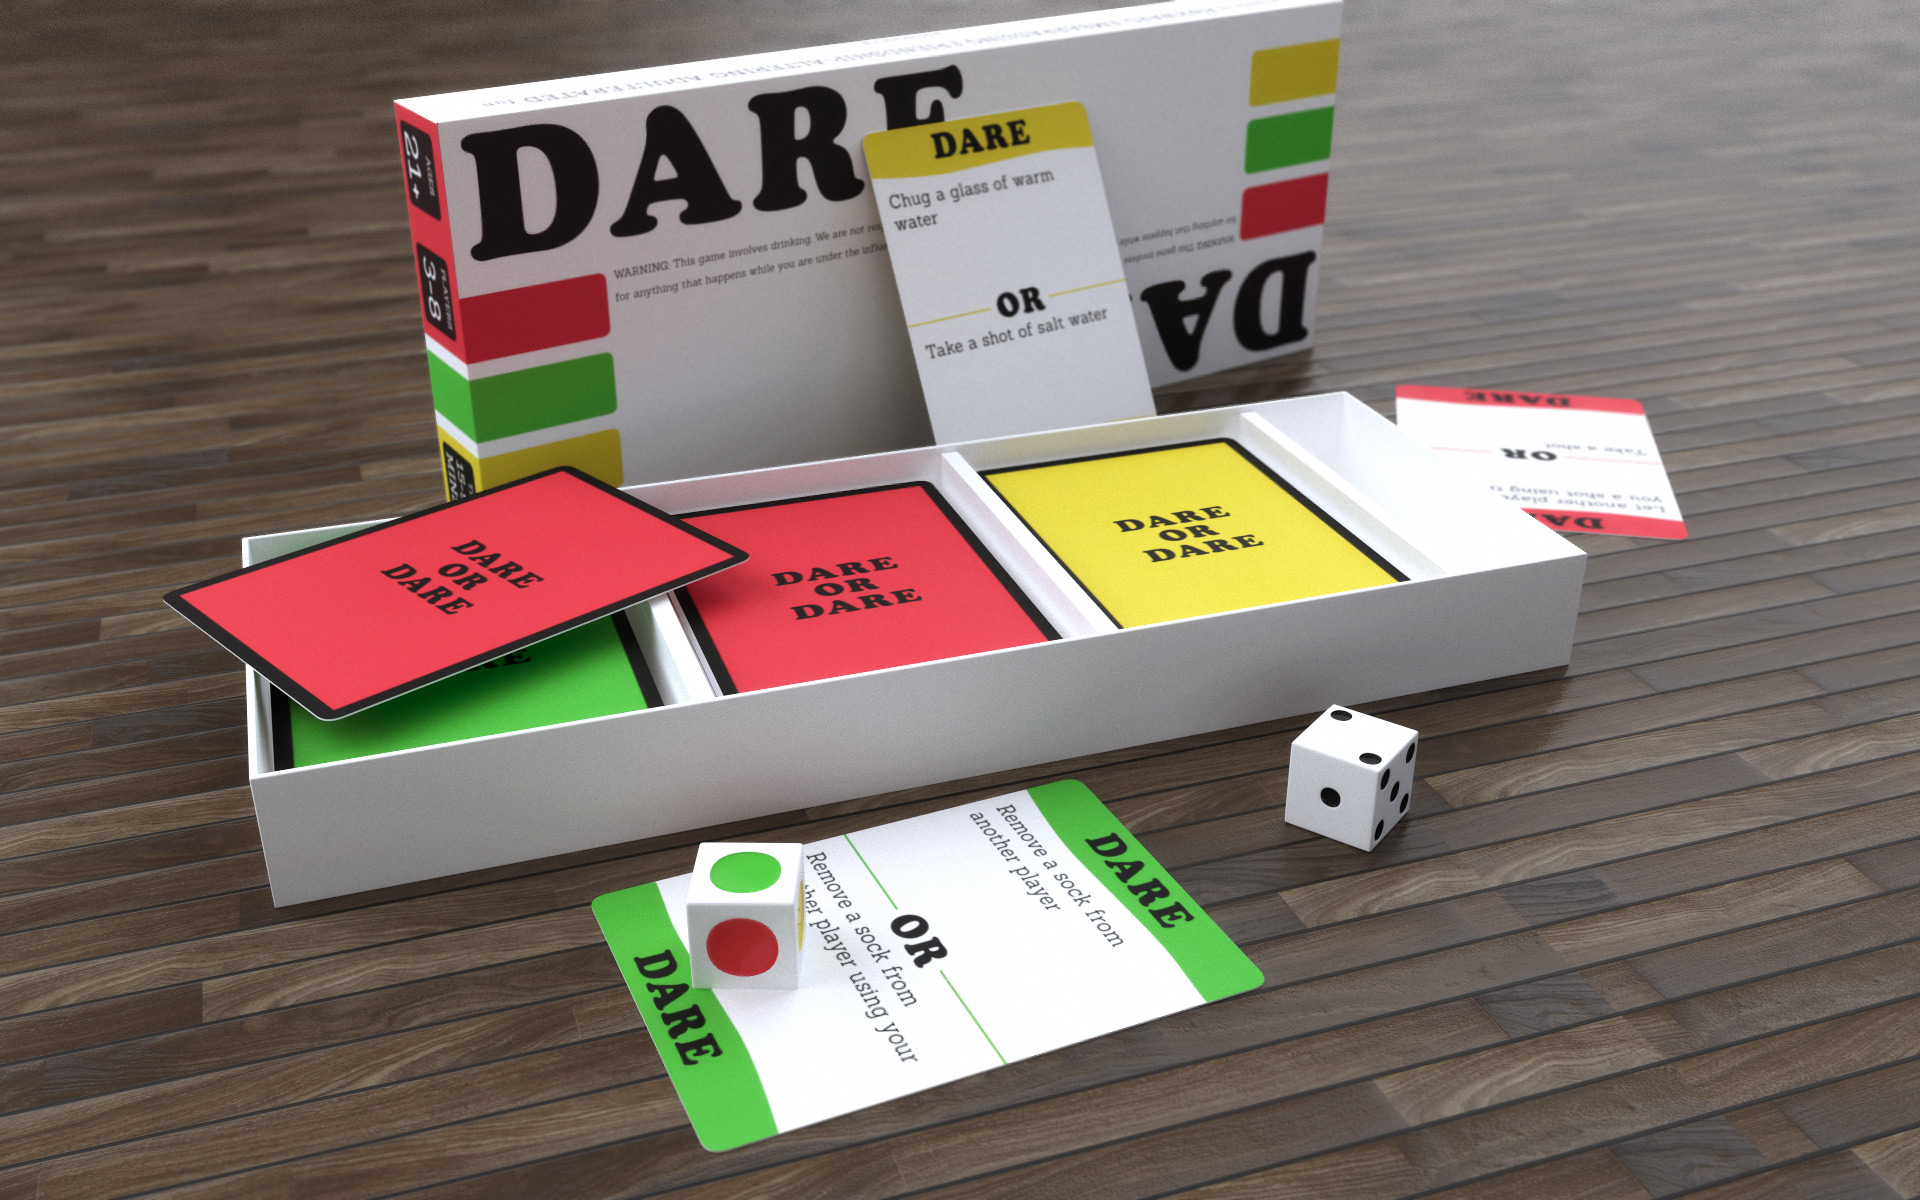
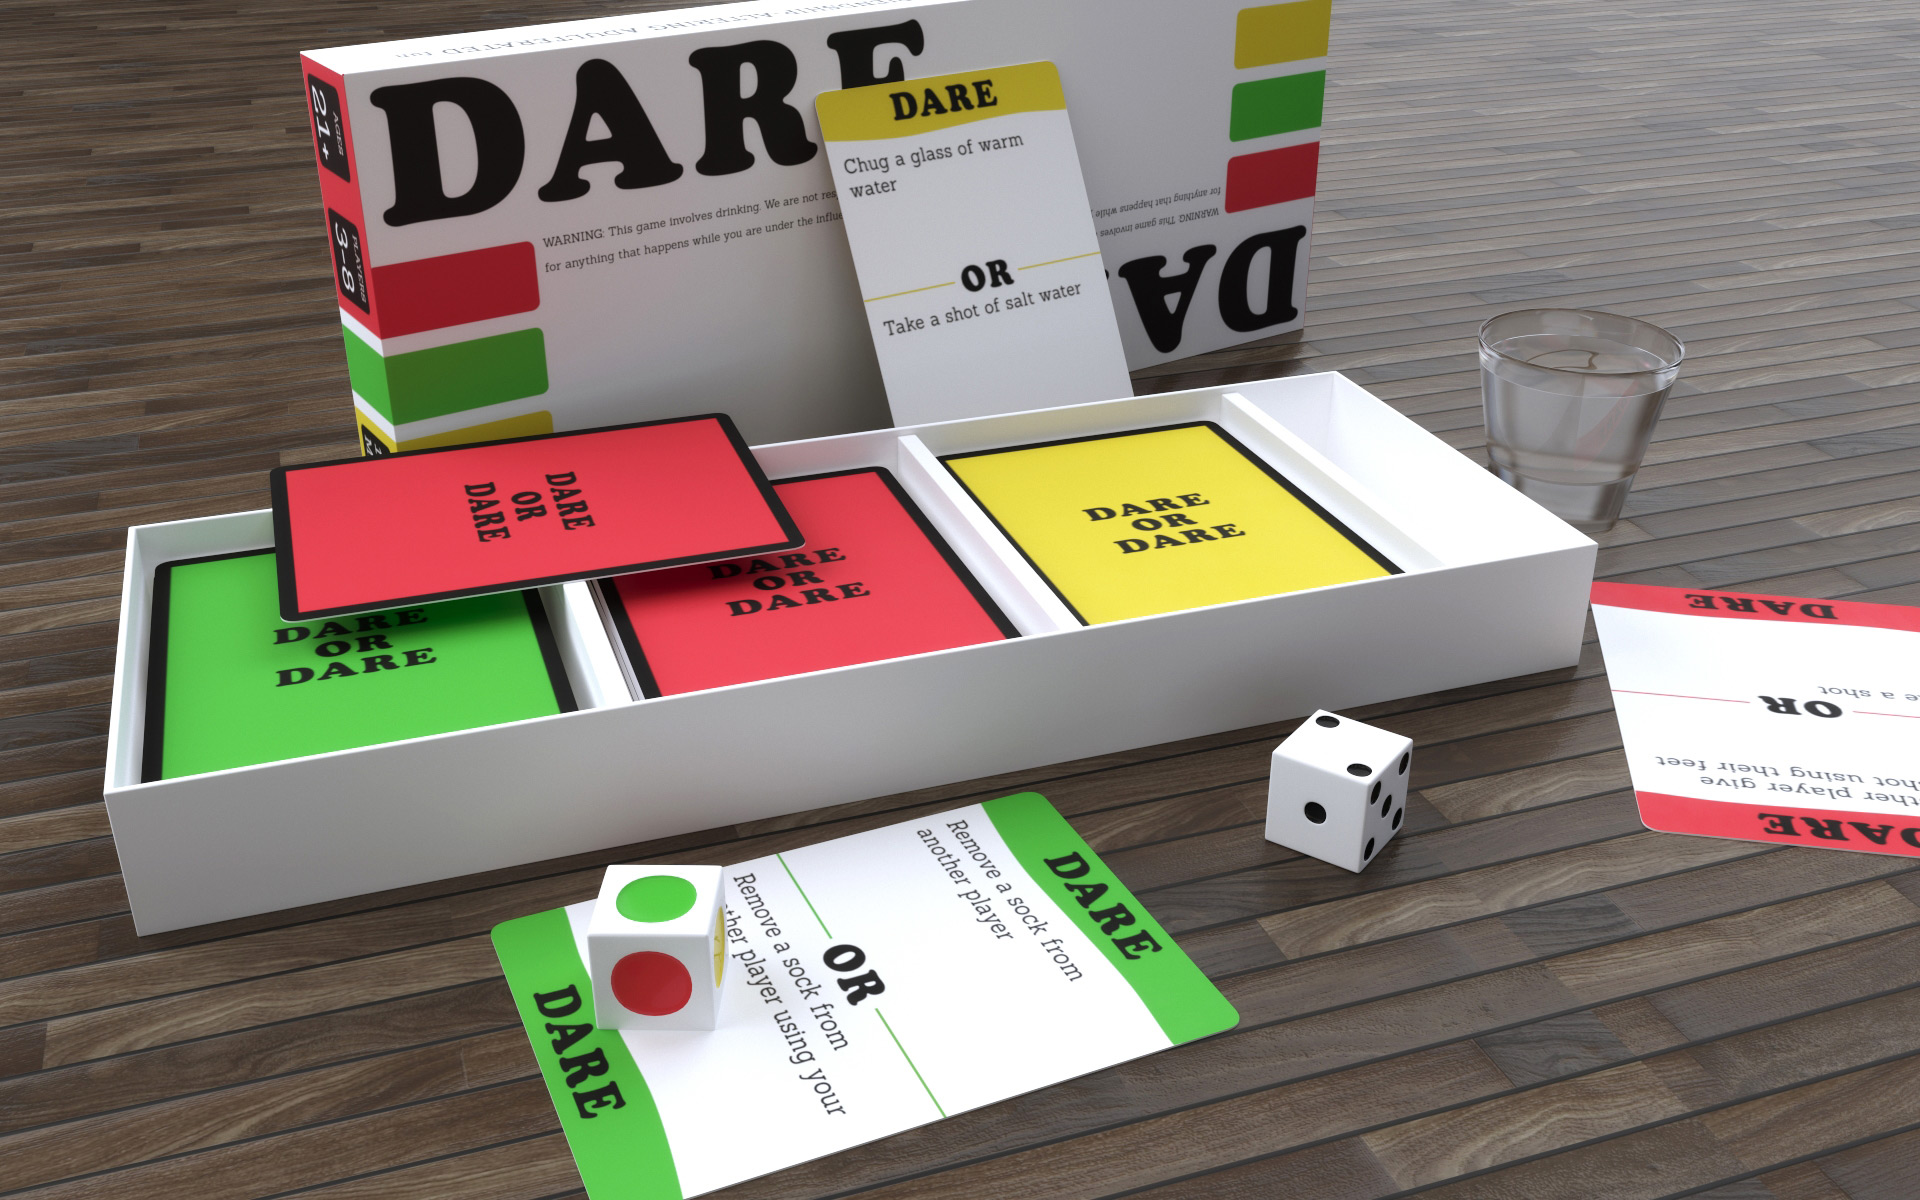
Fixed ssl issues and added req. Added corner to buy now button. Fixed vendor issue in gitignore. Updated box4 image.

diff --git a/public/css/style.css b/public/css/style.css
@@ -195,6 +195,7 @@ body, html {
     .red .buyOption form button[type='submit'] {
       background-color: #4fb848;
       border: 2px solid #050505;
+      border-radius: 10px;
       font-size: 21px;
       padding: 5px 0;
       width: 100%;

diff --git a/resources/assets/sass/style.scss b/resources/assets/sass/style.scss
@@ -173,6 +173,7 @@ body,html {
 			button[type='submit'] {
 				background-color: $color__green;
 				border: 2px solid $color__black;
+				border-radius: 10px;
 				font-size: 21px;
 				padding: 5px 0;
 				width: 100%;

diff --git a/resources/views/welcome.blade.php b/resources/views/welcome.blade.php
@@ -9,7 +9,7 @@
         <link href="{{ asset('/css/style.css') }}" rel="stylesheet" type="text/css">
         <link href="{{ asset('/css/lightbox.min.css') }}" rel="stylesheet" type="text/css">
         
-        <script src="http://ajax.googleapis.com/ajax/libs/jquery/1.9.1/jquery.min.js"></script>
+        <script src="https://ajax.googleapis.com/ajax/libs/jquery/1.9.1/jquery.min.js"></script>
         <script src="https://maxcdn.bootstrapcdn.com/bootstrap/3.3.7/js/bootstrap.min.js"></script>
         <script src="https://ajax.googleapis.com/ajax/libs/angularjs/1.4.8/angular.min.js"></script>
         <script src="https://js.stripe.com/v3/"></script>
